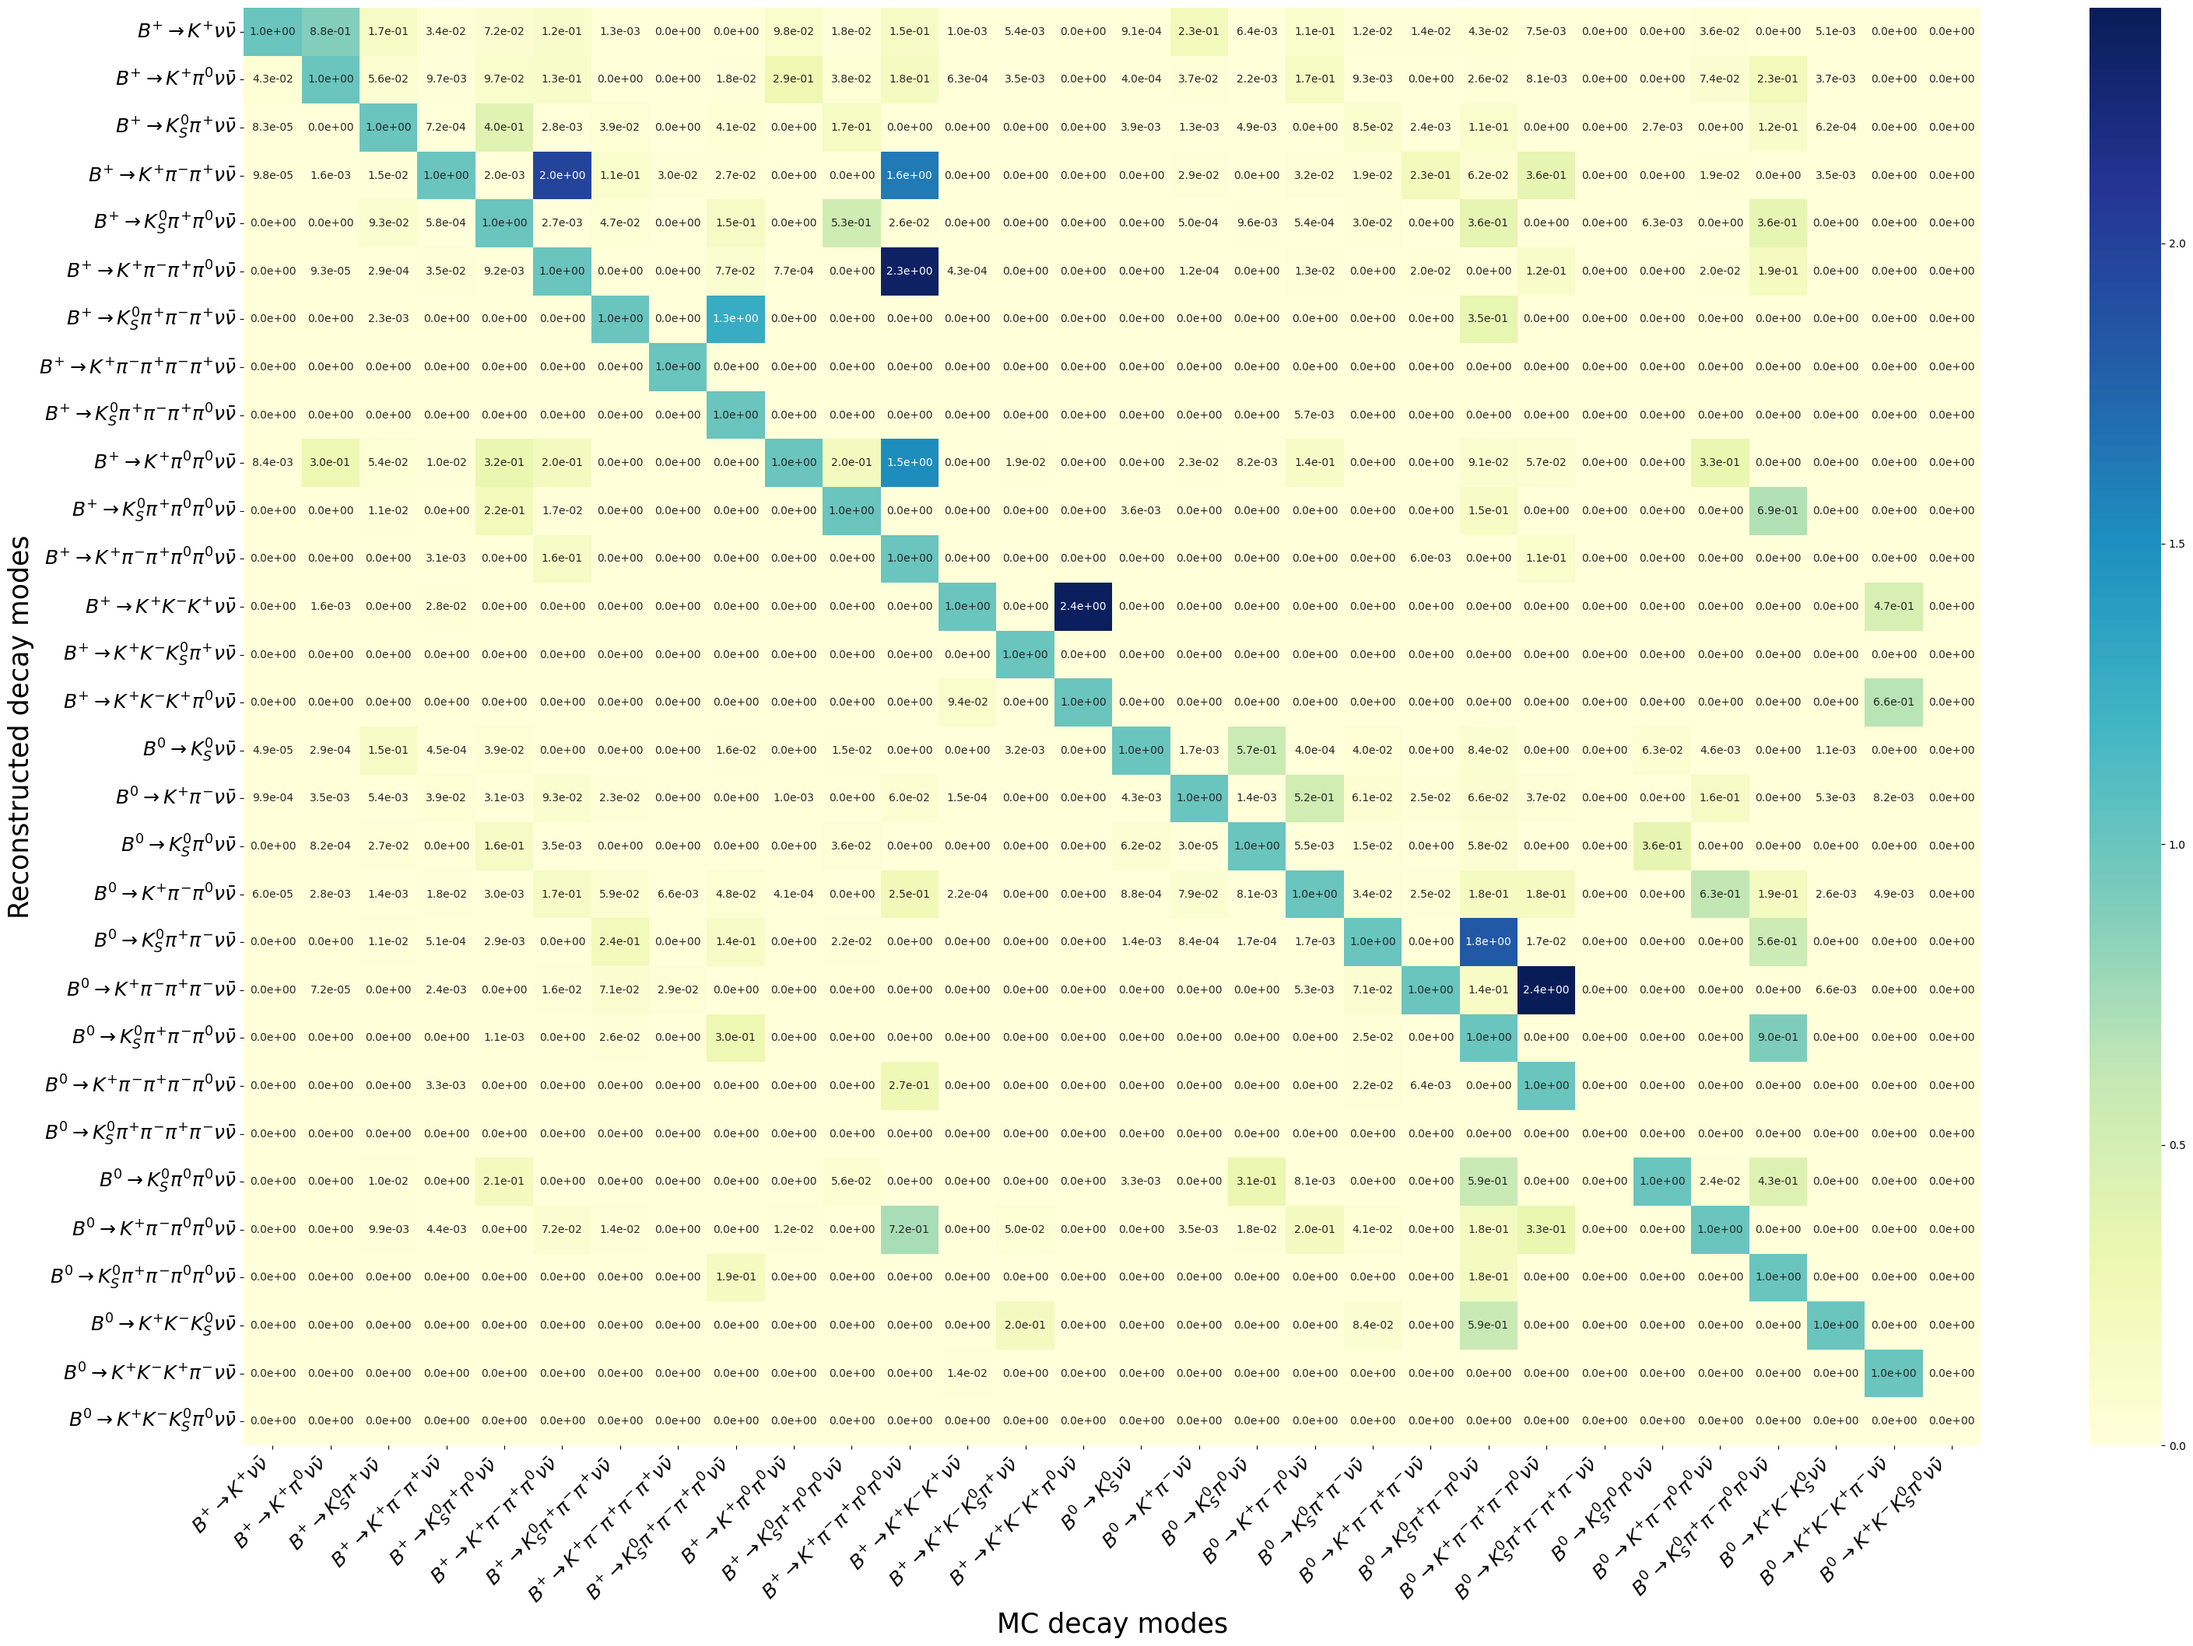
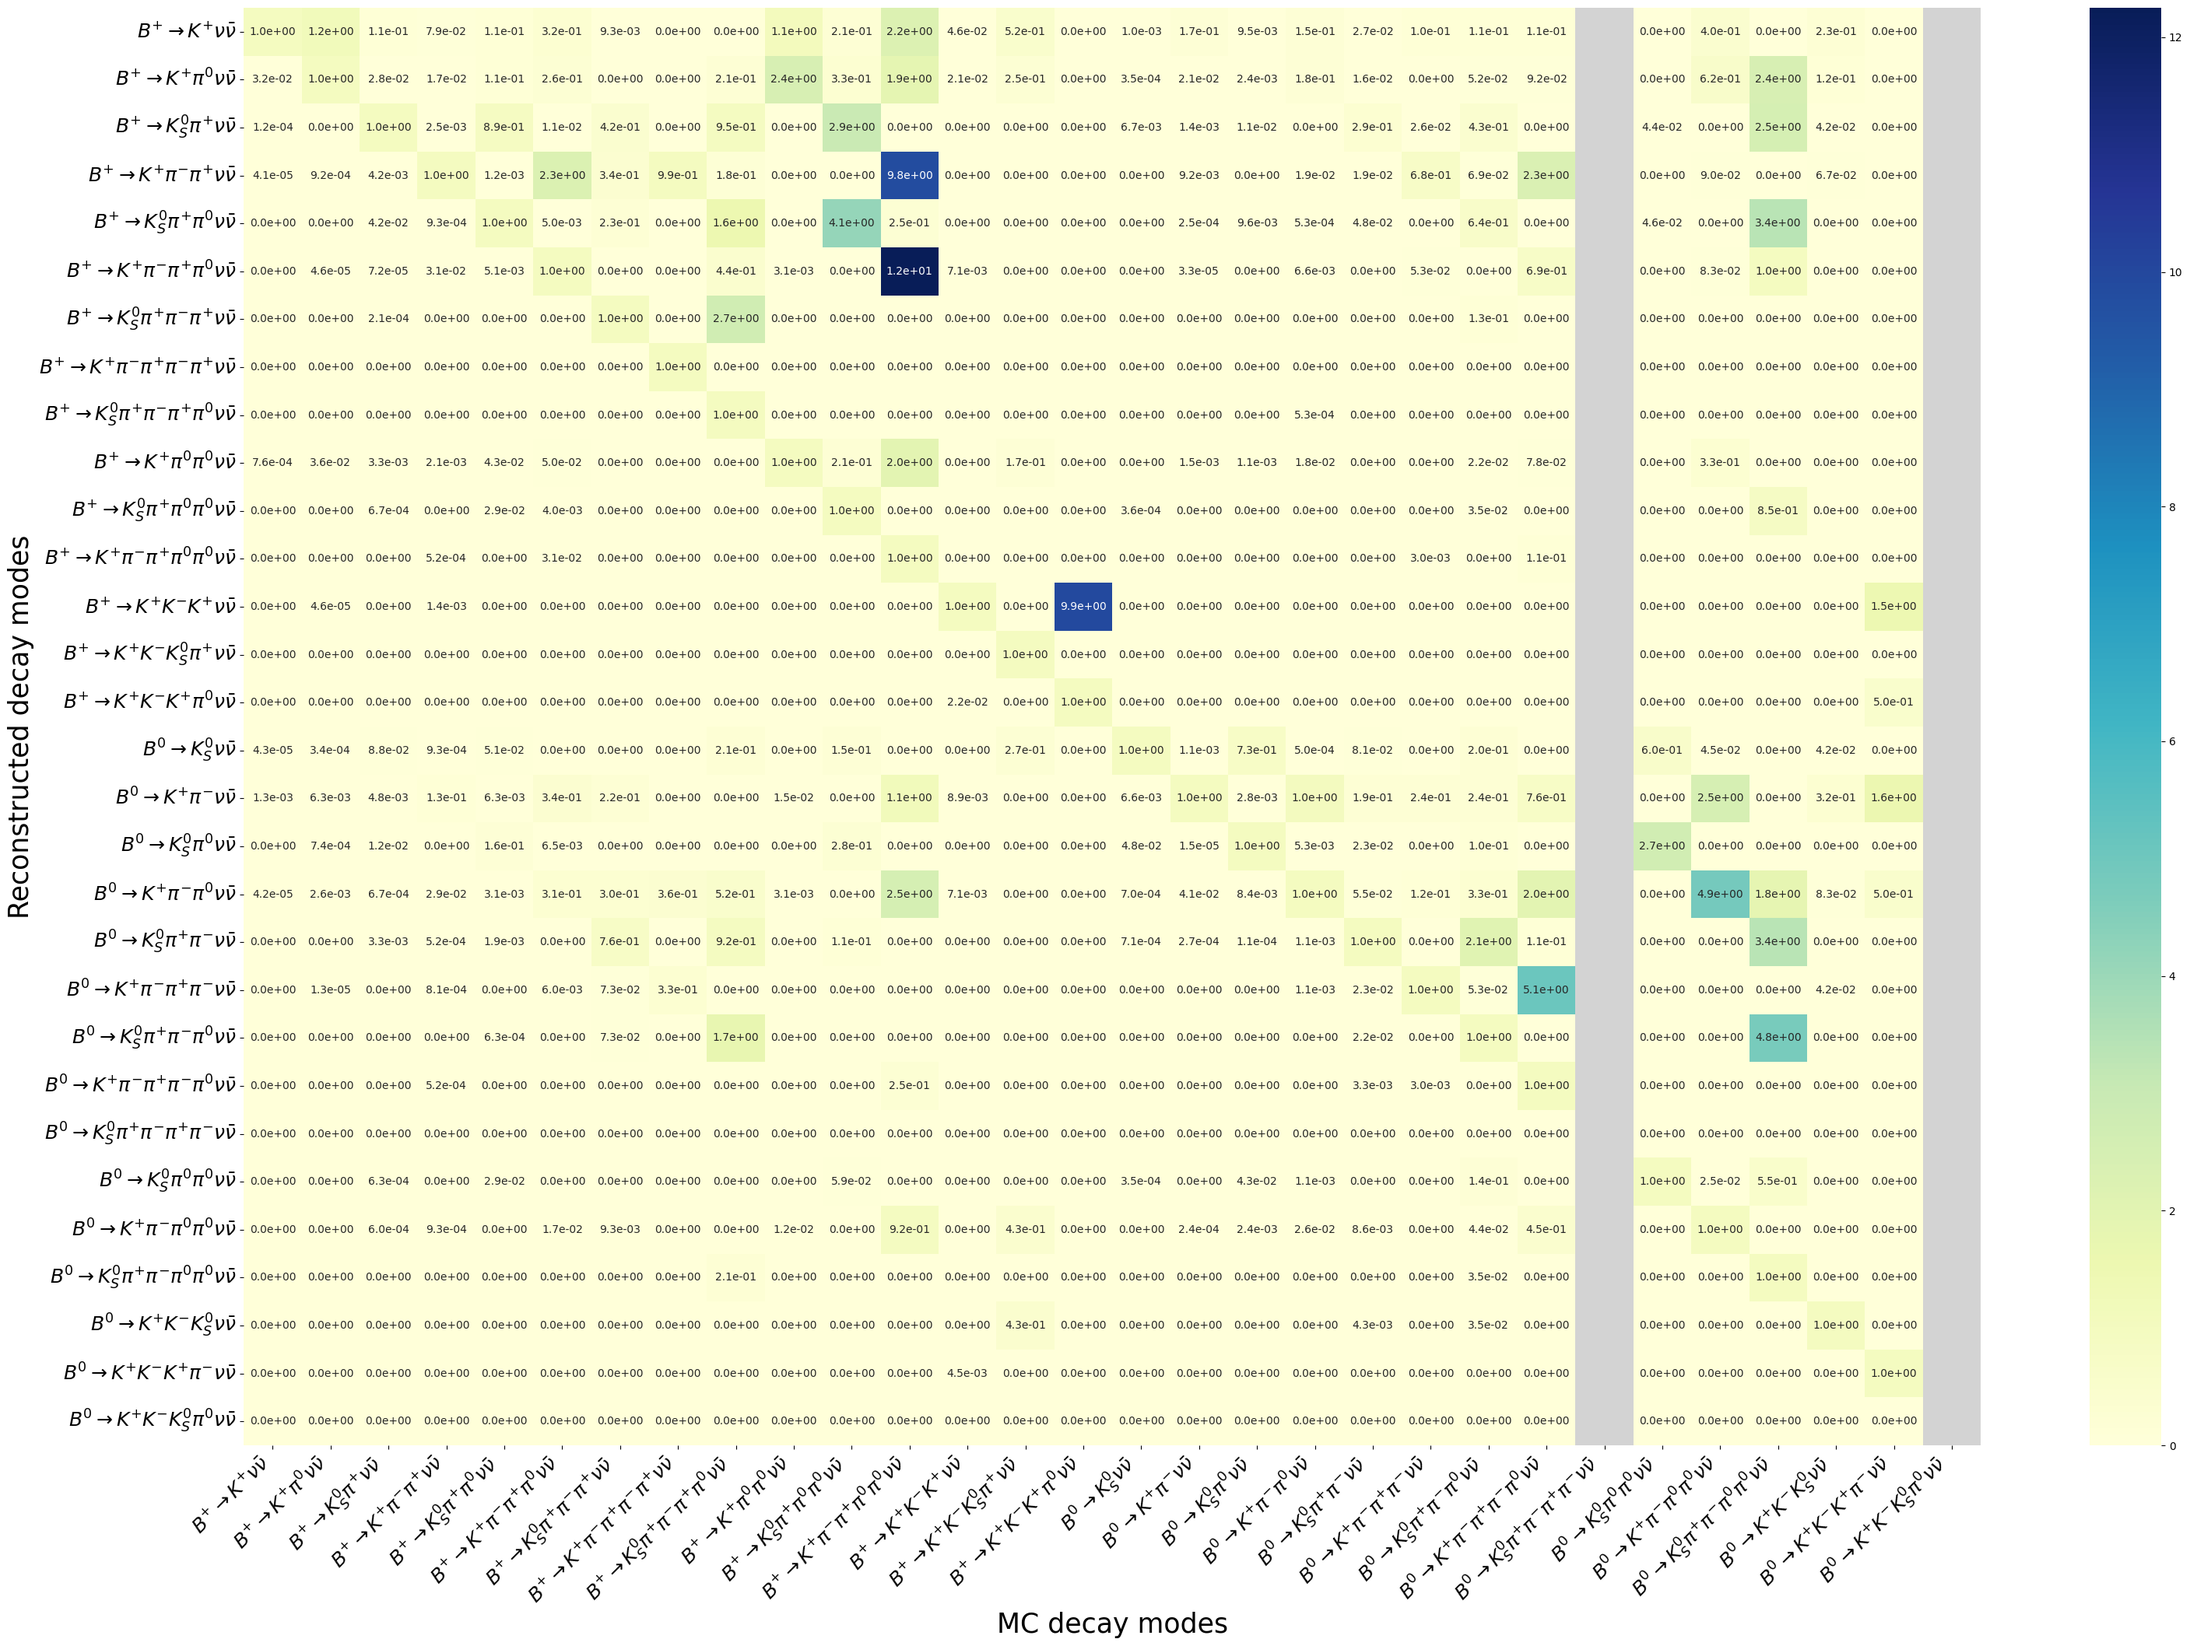
revise miration

diff --git a/body.tex b/body.tex
@@ -1474,6 +1474,10 @@ Figure~\ref{fig:Diagonal_Efficiencymatrix} shows the proper reconstruction effic
 Figure~\ref{fig:crossfeedmatrix} shows the cross-feed matrix.
 The cross-feed matrix is defined as $\epsilon_{\mathrm{mode}}/\epsilon_{\mathrm{true}}$, where $\epsilon_{\mathrm{mode}}$ is the efficiency for events to be reconstructed in a given mode, and $\epsilon_{\mathrm{true}}$ is the efficiency for events to be reconstructed in the correct decay mode.
 
+All 30 decay modes are present in the signal MC sample and are included in the reconstruction.
+In this sample, no candidates reconstructed in the $K_{S}^{0}\pi^{+}\pi^{-}\pi^{+}\pi^{-}$ or $K^{+}K^{-}K_{S}^{0}\pi^{0}$ mode survive the full selection.
+For these two modes, $\epsilon_{\mathrm{true}}$ is zero, so the corresponding cross-feed ratios are undefined.
+
 \begin{figure}
 \includegraphics[width=0.9\textwidth]{./picture/Diagonal_Efficiency.png}
 \caption{Proper reconstruction efficiencies after all selection requirements are applied. For example, the efficiency for $B^{+}\rightarrow K^{+}\nu\bar{\nu}$ events to be reconstructed as $B^{+}\rightarrow K^{+}\nu\bar{\nu}$ is $6.01\times 10^{-3}$.}
@@ -1481,7 +1485,7 @@ The cross-feed matrix is defined as $\epsilon_{\mathrm{mode}}/\epsilon_{\mathrm{
 \end{figure}
 \begin{figure}
 \includegraphics[width=0.9\textwidth]{./picture/cross_feed_matrix.png}
-\caption{Cross-feed matrix. It is defined as $\epsilon_{\mathrm{mode}}/\epsilon_{\mathrm{true}}$, where $\epsilon_{\mathrm{mode}}$ is the efficiency for events to be reconstructed in a given mode, and $\epsilon_{\mathrm{true}}$ is the efficiency for events to be reconstructed in the correct decay mode.}
+\caption{Cross-feed matrix after all selection requirements. For each generated decay mode, the entries show $\epsilon_{\mathrm{mode}}/\epsilon_{\mathrm{true}}$. Here, $\epsilon_{\mathrm{mode}}$ is the efficiency for reconstruction in the mode specified by the row, and $\epsilon_{\mathrm{true}}$ is the efficiency for reconstruction in the correct decay mode. Gray columns indicate undefined ratios for modes with $\epsilon_{\mathrm{true}}=0$ in the signal MC sample.}
 \label{fig:crossfeedmatrix}
 \end{figure}
 
